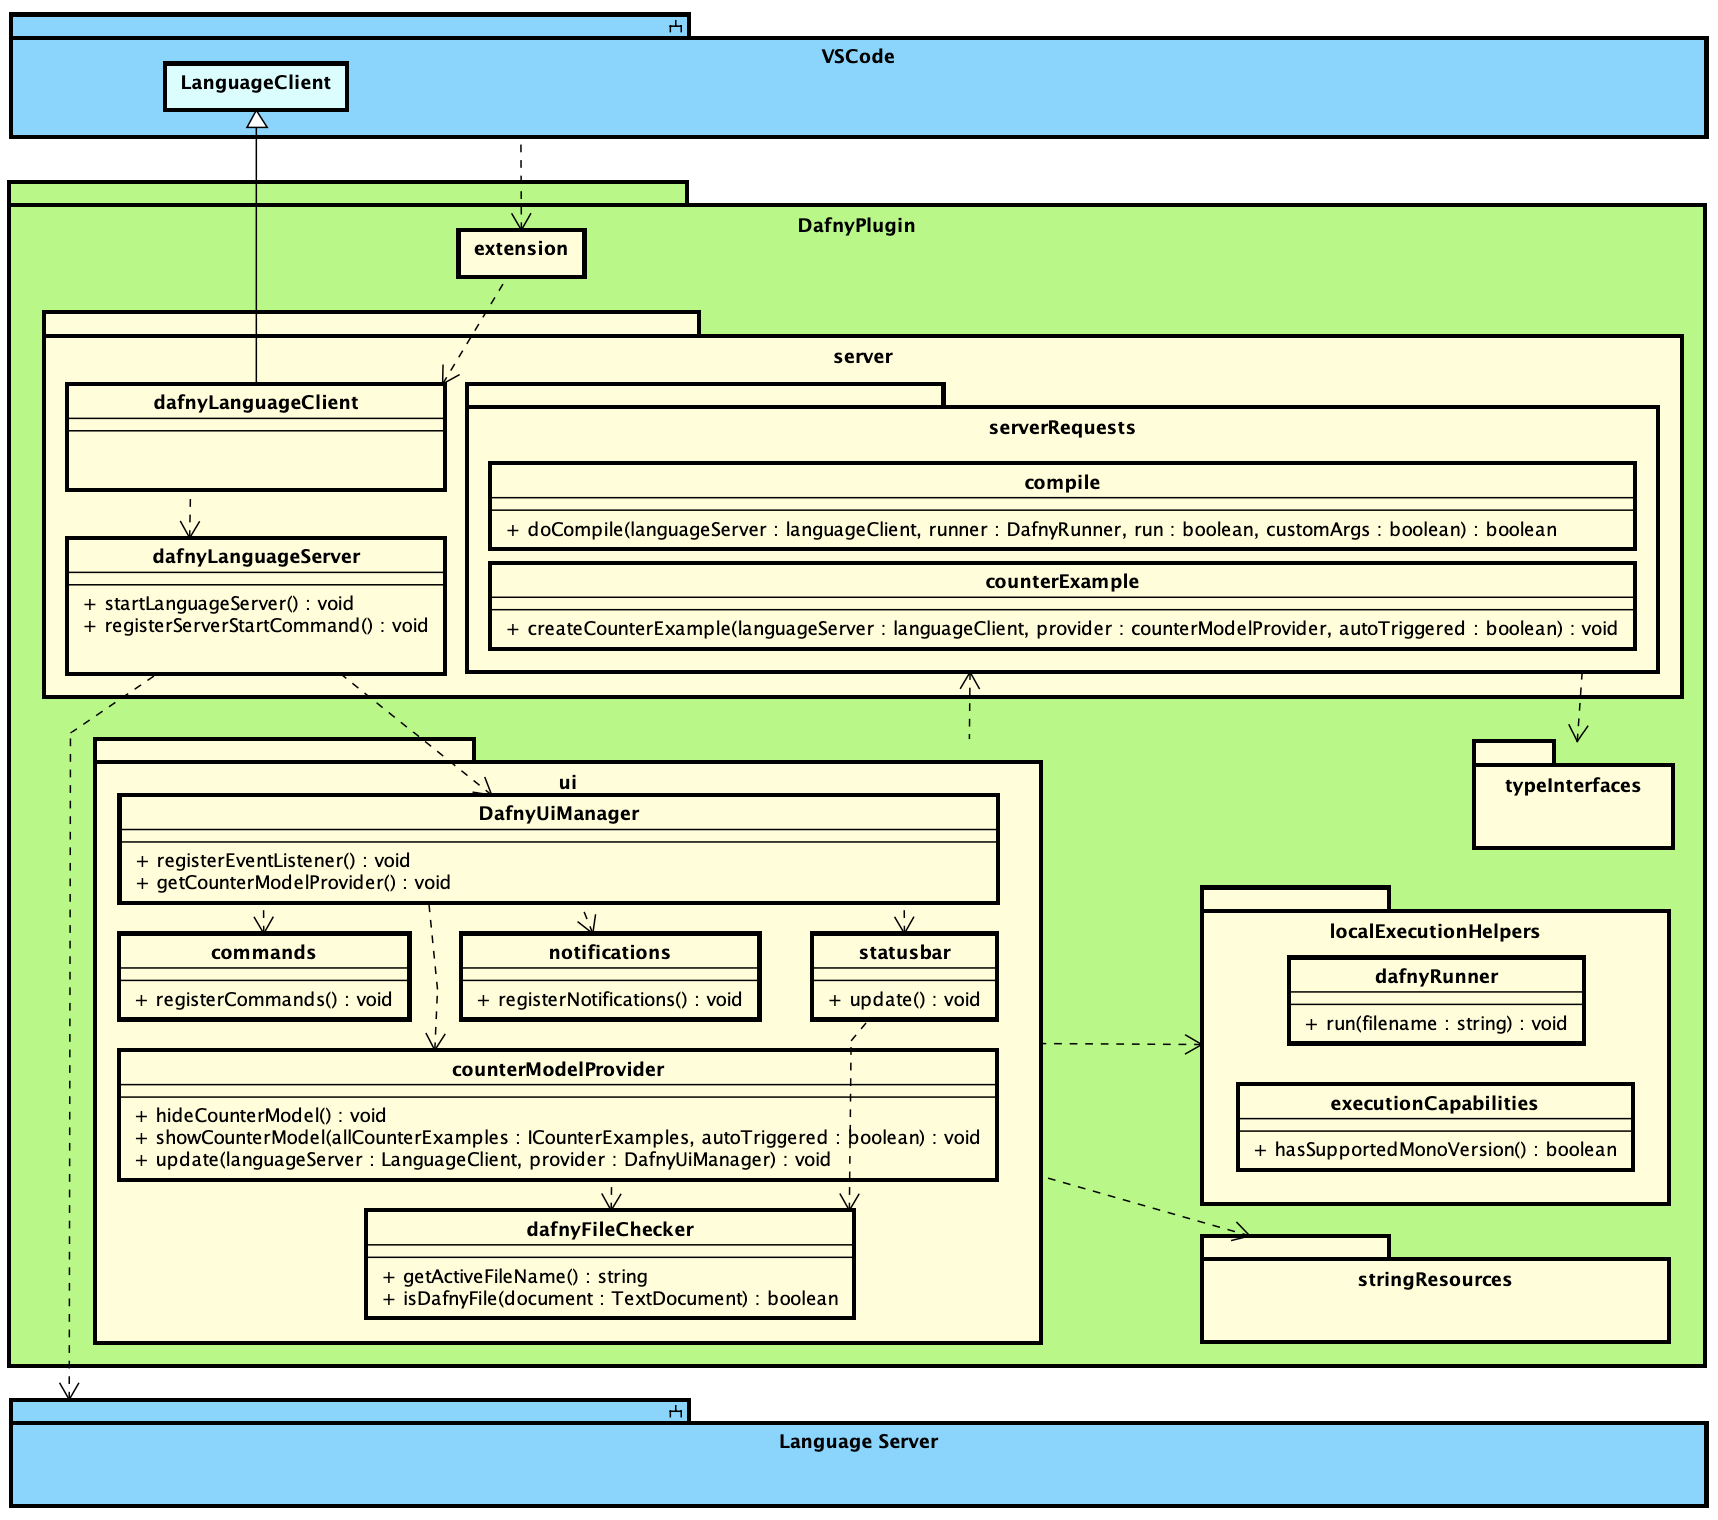
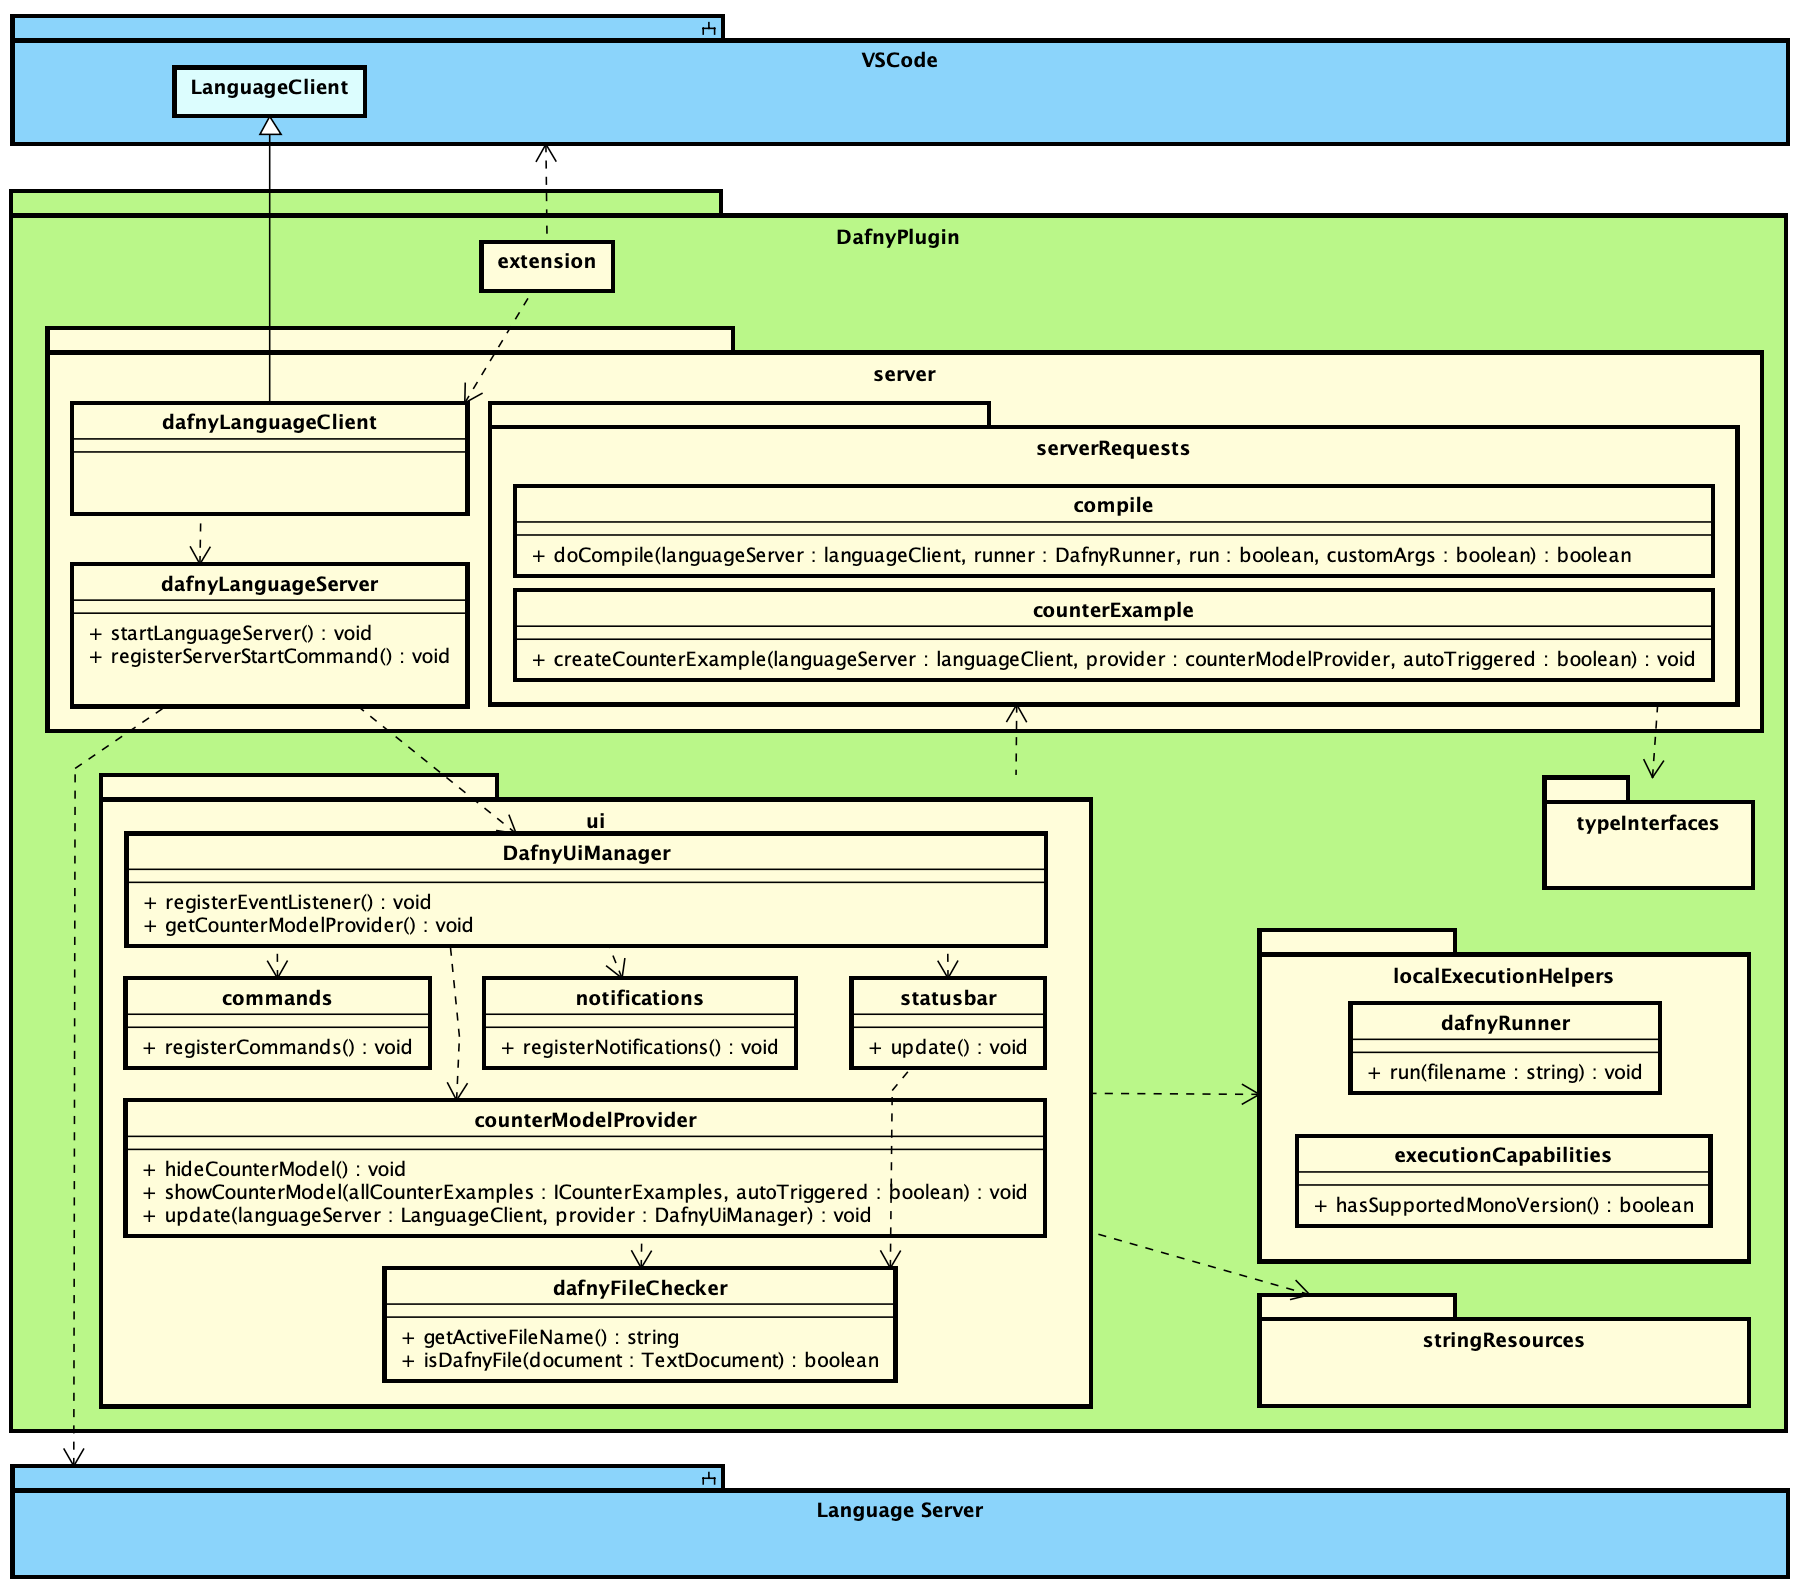
UI Module

diff --git a/chapters/06_implementation.tex b/chapters/06_implementation.tex
@@ -24,7 +24,6 @@ as well as basic configurations which are made possible for the end user.
 During the implementation process, many confusing module imports and component usages arose.
 Their purpose was generally unclear and thus difficult to understand.
 The imports caused a lot of dependencies, too.
-
 This problem had to be solved by further introductions of interfaces and encapsulation of modules. \\
 
 Although interfaces were used for individual types,
@@ -35,7 +34,9 @@ The modules now no longer program on the class implementations, but against the 
 For this purpose one importable module with the name \code{\_<Directory>Modules} was created for each directory.
 Figure \ref{fig:client_2nd_refactoring} shows an overview of the interfaces.
 In addition, the dependencies among each other are shown.
-For simplicity, the contents of \code{stringRessources} and \code{typeInterfaces} have been omitted. \\
+For simplicity, the contents of \code{stringRessources} and \code{typeInterfaces} to each package have been omitted.
+The dependency of \code{extensions} on VS Code is based on dependeny injection and represents the plugin entry point.
+Apart from this dependency, no dependency injection dependencies are shown in the diagram. \\
 
 \begin{figure}[H]
     \centering
@@ -57,7 +58,7 @@ In the code review, it was decided that default values should no longer be set w
 but rather at a central location.
 This would make it easier to maintain these values.
 
-\subsubsection{Client Modules In Detail}
+\subsubsection{Client Modules in Detail}
 The individual modules from the design concept are shown below.
 The components shown in green are exported to the outside of the module and can be used by other modules.
 The other, orange components are only used within the module. \\
@@ -73,8 +74,8 @@ and the download of the Dafny language server.
 These two modules will be discussed separately in the following sections and not in this section. \\
 
 \textbf{\code{dafnyLanguageServerStartup}}\\
-The main package \code{dafnyLanguageServerStartup} is used by the \code{extension.ts}
-and contains basicly the packages "main logic".
+The main module \code{dafnyLanguageServerStartup} is used by the \code{extension.ts}
+and contains basicly the plugin's "main logic".
 It is to start the Dafny language server and establish a connection,
 as well as basically initialize the plugin. This includes creating the UI management component and command registrations.
 
@@ -89,7 +90,7 @@ For more details see section \ref{section:implementation:client:download}.
 \begin{figure}[H]
     \centering
     \includegraphics[width=\textwidth]{implementation/dafnyLanguageServerStartup}
-    \caption{Package \code{dafnyLanguageServerStartup}}
+    \caption{Module \code{dafnyLanguageServerStartup}}
     \label{fig:placeholder_ref}
 \end{figure}
 
@@ -102,10 +103,135 @@ of VS Code. "Client" is somewhat confusing in that sense, since this module is u
 Among other things, the options are set with which command the server is started and which file types, which are opened in VS Code by the user of the plugin, should be transferred to the server. \\
 
 Secondly, \code{serverInitializer} registers a callback as the program entry point to the created \code{serverOptions} instance
-and then the language server is started with \code{this.languageServer.start()}. \\
+and then the language server is started with \code{this.languageServer.start()}.
+To run the Dafny language server, an instance of \code{DafnyRunner} is created.
+This component is part of the \code{localExecution} package.\\
 
 \textbf{\code{ui}}\\
-This package is responsible for representations. This includes the status bar information and the display of the CounterModel.
+This package is responsible for all visual representations.
+This includes the status bar information and the display of the CounterModel.
+Also it registers VS Code commands and context menu additions. \\
+
+\code{DafnyUiManager} is the basic UI entry point and manages the UI components.
+It creates the individual components and updates them specific events if necessary.
+This is the case, if the opened document is changed by the plugin user.\\
+
+Also a \code{disposeUi} function is also provided, which destroys the UI elements. This is for example
+on a Dafny language server restart the case. On restart all, UI components are rebuilt,
+so that a clean plugin restart is also performed in the client if one of the features should
+be frozen and does not response anymore in an extreme case.\\
+
+\begin{figure}[H]
+    \centering
+    \includegraphics[width=\textwidth]{tmpPlaceHolderTodo}
+    \caption{Commands in the Context Menu and the VS Code Command Line}
+    \label{fig:commands}
+\end{figure}
+
+The \code{Commands} package registers all commands that are offered to the user
+and links them to corresponding callback functions.
+These commands are available with the context menu
+and the available commands in the VS Code Command line, as shown in Figure \ref{fig:commands}.
+Individual dependencies are injected. Thiese includes:
+\code{IDafnyRunner} to call compile and run as a callback as you can see for examle in listing \ref{lst:compileAndRun}.
+Furthermore \code{IDafnyUiManager} is injected
+in order to access the CounterModelProvider with the appropriate commands and to show or hide it.
+
+\begin{lstlisting}[language=typescript, caption={Excerpt from \code{commands.ts}}, captionpos=b, label={lst:compileAndRun}]
+[..]
+name: CommandStrings.CompileAndRun,
+callback: () => {
+  const compile: ICompile = new Compile(this.languageServer);
+  compile.compile(false).then(() => compile.run(this.runner));
+}
+[..]
+\end{lstlisting}
+
+The following commands are registered:
+\begin{itemize}
+    \item {\bf Compile} \textendash{} to compile the Dafny program.
+    \item {\bf Compile with Custom Arguments} \textendash{} to pass a compilation request with user-specific
+    compile parameters to the server.
+    \item {\bf Compile and Run} \textendash{} after compiling the dafny program is executed and the output is displayed.
+    \item {\bf Show CounterExample} \textendash{} displays the CounterExample for the currently opened Dafny file, if available.
+    \item {\bf Hide Counter Example} \textendash{} hides CounterExample for the current dafny file.
+    \item {\bf Show References} \textendash{} with a click on a CodeLens references,
+    the references are shown to the user via a popup window.
+\end{itemize}
+
+\begin{figure}[H]
+    \centering
+    \includegraphics[width=\textwidth]{tmpPlaceHolderTodo}
+    \caption{Warning Message Received From Server (zB von GoTo bei invalidem File)}
+    \label{fig:msg_example}
+\end{figure}
+
+The \code{Notifications} component is responsible for displaying messages received from the server to the user.
+There is an example shown in figure xxx.
+There are the following three types, each of which is displayed with a different color:
+
+\begin{itemize}
+    \item {\bf Error} \textendash{} is shown in red.
+    \item {\bf Warning} \textendash{} is displayed in yellow.
+    \item {\bf Info} \textendash{} is shown in blue.
+\end{itemize}
+
+The logic of the display messages is provided directly by the VS Code API.
+
+\begin{figure}[H]
+    \centering
+    \includegraphics[width=\textwidth]{implementation/ui}
+    \caption{Module \code{ui}}
+    \label{fig:ui_module}
+\end{figure}
+
+The \code{provider} module provides the individual UI components.
+The packages are exported to be used by the \code{DafnyUiManager} component.
+However, the providers module is not exported to the outside by the \code{ui} module,
+so it is shown in orange inf figure \ref{fig:ui_module}.
+The module was created purely for grouping and a better file structure.\\
+
+The \code{CodeLensProvider} component is very simple. CodeLens data transferred from the server is transferred to the VS Code API.
+The logic is limited to passing the data through. The actual display of the CodeLens popup window is done via the
+VS Code API. More about the logic of CodeLens can be found in section \ref{section:implementation:features:codelens}. \\
+
+The \code{CounterModelProvider} component is used to display and hide CounterModels.
+This component also stores in which Dafny files a CounterModel should be displayed and in which not.
+Therefore, if the user changes the opened file in the worspace, the CounterModel is automatically hidden or shown.
+The CounterModuel supports a dark and light mode as shown in figure \ref{fig:dark_light_mode}.
+This mode is automatically set accordingly,
+depending on whether VS Code is set to light or dark by the user.
+
+\begin{figure}[H]
+    \centering
+    \includegraphics[width=\textwidth]{tmpPlaceHolderTodo}
+    \caption{CounterModel in Dark (Left) and Light Mode (Right)}
+    \label{fig:dark_light_mode}
+\end{figure}
+
+Unlike the Compile feature, the \code{CounterModelProvider} creates a callback and passes it to the \code{serverRequest} module.
+Therefore an update-call of the \code{CounterModelProvider} requires a transfer of the language server instance to instantiate a \code{RequestCounterExample}.
+This is for the following reason: Unlike the \code{StatusbarProvider} or the \code{CodeLensProvider},
+\code{CounterModelProvider} has an active influence on it,
+when a server request should be sent and when not.
+With the components for the statubar and CodeLens react passively to an event.
+
+In this way the CounterModel component can regulate the server requests.
+For reasons of efficiency, the implemented client-side display of CounterModels limits its
+server requests to a certain number per second.
+This means that even if a plugin user types very fast on the keyboard, a
+update requested by \code{CounterModelProvider} to the server is limited by default to two per second. \\
+
+The \code{StatusbarProvider} reacts to messages from the Dafny language server.
+It primarily displays the following information to the user as shown in figure \ref{fig:statusbar}:
+Whether the Dafny file is valid, if how many errors are present and the Dafny language server version.
+
+\begin{figure}[H]
+    \centering
+    \includegraphics[width=\textwidth]{tmpPlaceHolderTodo}
+    \caption{Dafny Statusbar}
+    \label{fig:statusbar}
+\end{figure}
 
 \textbf{\code{serverRequests}}\\
 This package is responsible for server requests which are not automatically handled by the VS Code.
@@ -1000,6 +1126,7 @@ This way, the user could be informed about them.\\
 
 
 \subsubsection{CodeLens}
+\label{section:implementation:features:codelens}
 The CodeLens functionality is divided into two primary tasks.
 
 First, it is shown how often the method or class has already been used.
